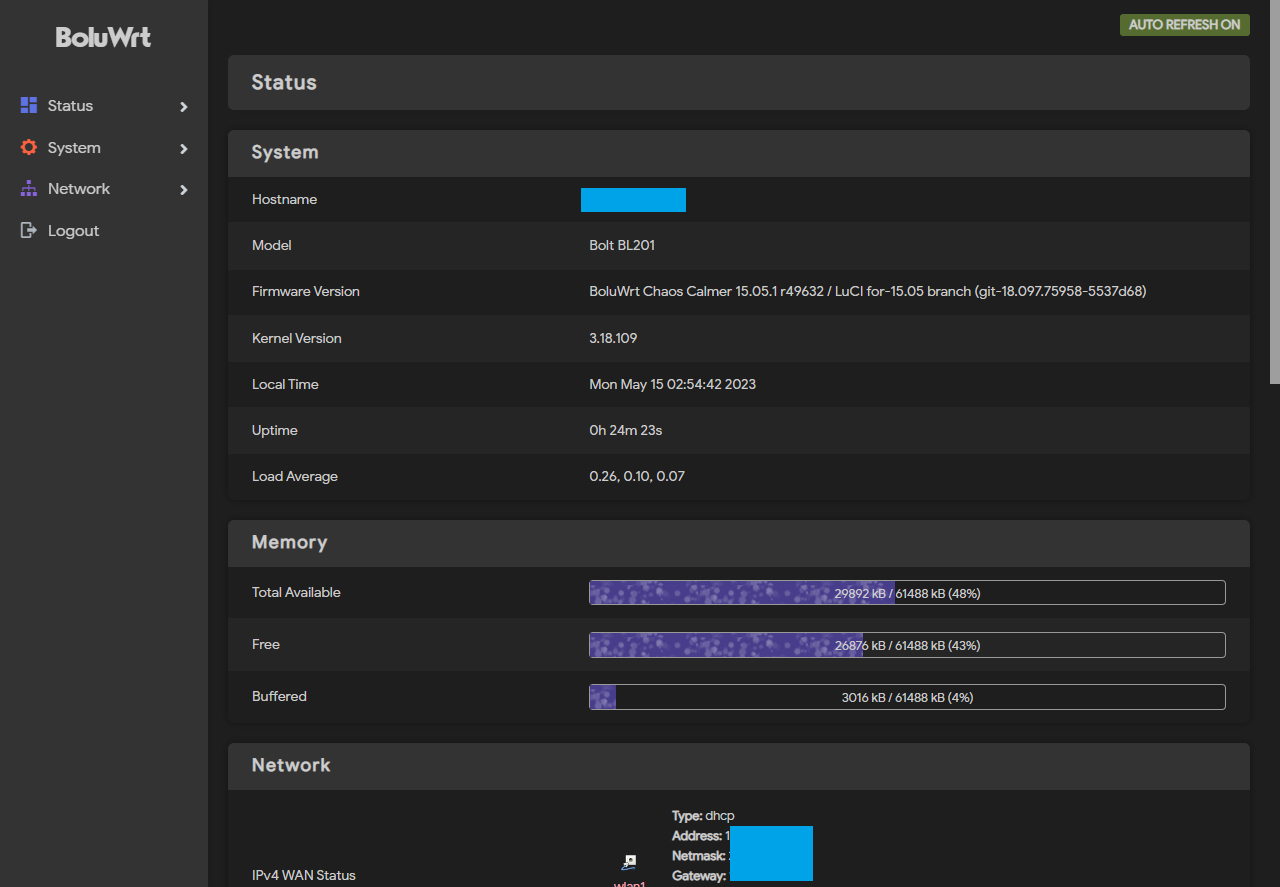
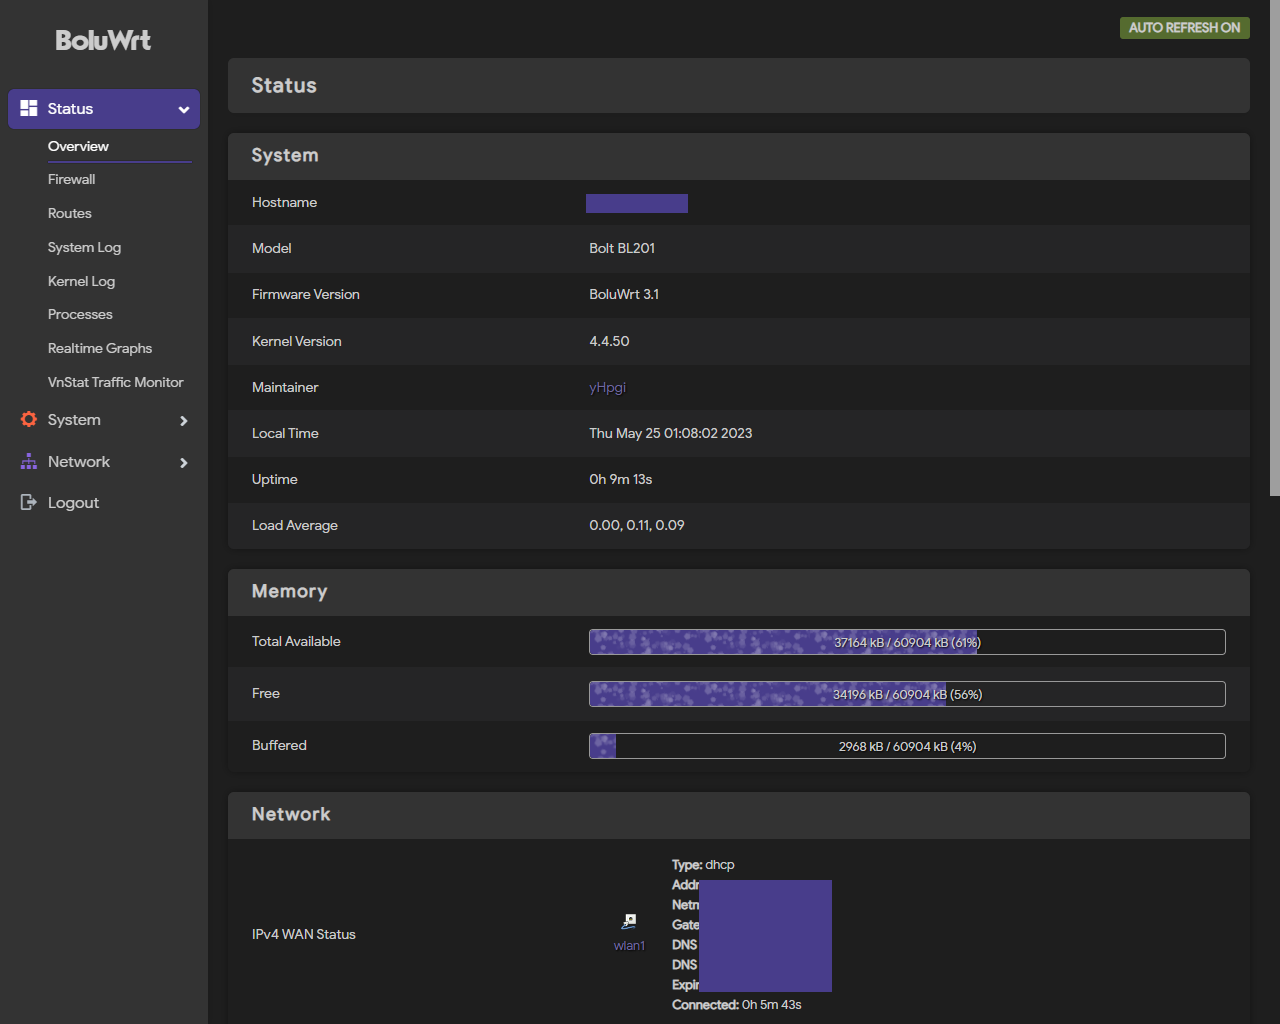
add BoluWrt 3.1 release notes and update some image

diff --git a/README.md b/README.md
@@ -12,11 +12,23 @@ OpenWrt dengan kustomisasi kernel untuk memperbaiki masalah WiFi yang lemah.
   
 ### Screenshoot
 
-![image.png](screenshoot/overview.png)
+![login-page](screenshoot/login.png)
+![overview](screenshoot/overview.png)
 
 ### Changelog :
 
-  #### [BoluWrt 2.2](https://github.com/yHpgi/openwrt-bl201-boluwrt/releases/tag/BOLUWRT-CC) | Latest
+  #### [BoluWrt 3.1](https://github.com/yHpgi/openwrt-bl201-boluwrt/releases/tag/3.1) | Terbaru
+
+    1. Didasarkan pada LEDE 17 / Custom compile untuk Bolt-BL201
+    2. Menggunakan bolu-theme sebagai tema default
+    3. Pengoptimalan driver WiFi
+    4. OPKG berfungsi
+    5. Semua LED berfungsi
+    6. Semua port berfungsi
+    7. Tombol reset berfungsi
+    8. Tombol WPS sengaja dimatikan
+
+  #### [BoluWrt 2.2](https://github.com/yHpgi/openwrt-bl201-boluwrt/releases/tag/BOLUWRT-CC)
 
     Based on Chaos-calmer 15.05.1 / Custom compile untuk Bolt-BL201
     
@@ -47,13 +59,7 @@ OpenWrt dengan kustomisasi kernel untuk memperbaiki masalah WiFi yang lemah.
    - Masuk ke menu upgrade lalu masukkan file sysupgeade pada kolom kedua dan eeprom pada kolom ketiga.
    - Lalu klik mulai. konfirmasi penginstallan dan tunggu proses flashing berjalan hingga selesai.
 
-#### ~2. Menggunakan USB Programmer~
-
-  - ~Unduh file full image di halaman rilis, kemudian flash menggunakan usb programmer langsung ke chip eeprom.~ 
-    
-    `File dihapus. disarankan menggunakan Breed-web.`
-
-#### 3. Menggunakan Openwrt sysupgrade
+#### 2. Menggunakan Openwrt sysupgrade
   
   - Aplikasi yang diperlukan :
   
@@ -75,16 +81,16 @@ OpenWrt dengan kustomisasi kernel untuk memperbaiki masalah WiFi yang lemah.
   
     e. tekan Enter. dan tunggu proses flashing hingga selesai.
   
-#### 4. Melalui LUCI
+#### 3. Melalui LUCI
   
   - Melalui menu upgrade di Openwrt
 
 ### Lain-lain :
 
 ```
-Password login : (kosong)
-Password WiFi (2.4Ghz dan 5Ghz) : (kosong)
-Default IP : 192.168.1.1
+Password login                    : (kosong)
+Password WiFi (2.4Ghz dan 5Ghz)   : (kosong)
+Default IP                        : 192.168.1.1
 ```
 
 Link berguna:
